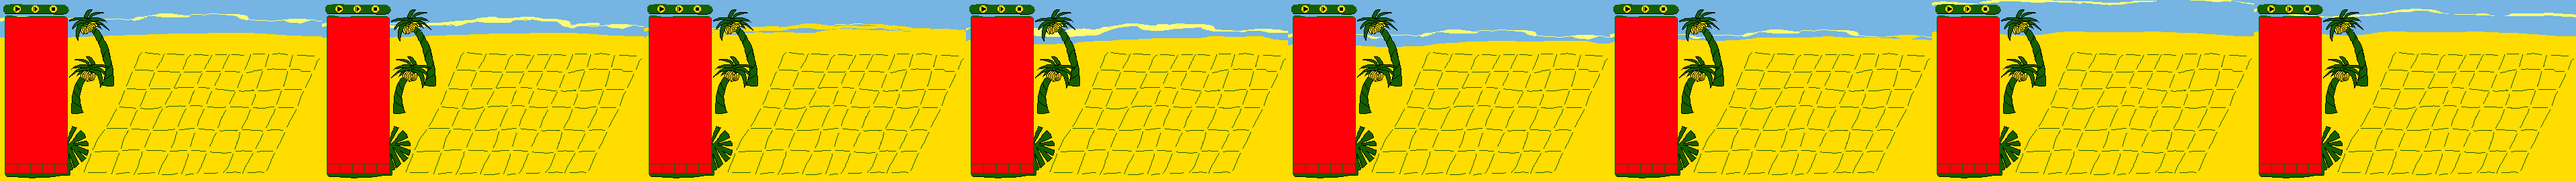
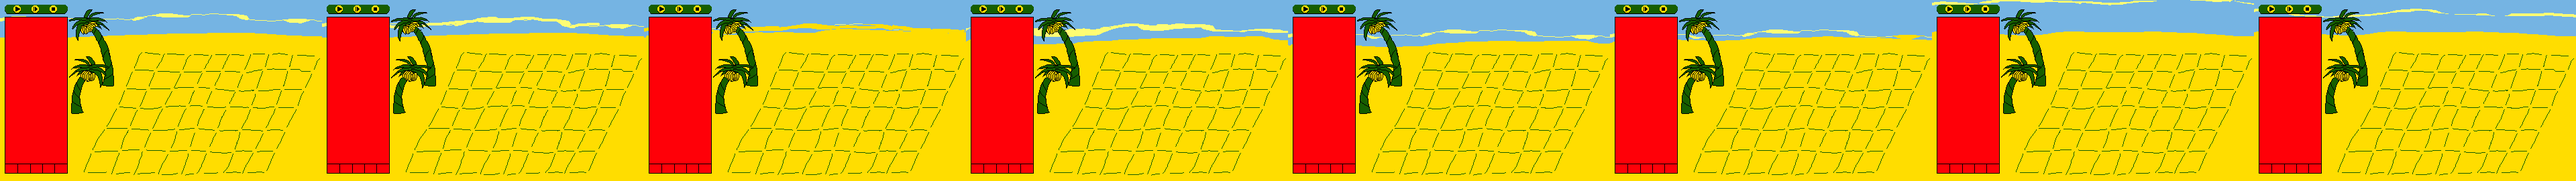
almost done

diff --git a/src/game.rs b/src/game.rs
@@ -170,15 +170,16 @@ impl Game {
                 );
 
                 if *col {
-                    window.draw_ex(&
-                        Rectangle::new(
-                            crabloc,
-                            (10., 10.)
-                        ),
-                        Col(Color{r:0./255., g:0./255., b:255./255., a:255./255.}),
-                        Transform::scale(Vector::new(1., 1.)),
-                        1,
-                    );
+                    sprites.execute(|spr|{
+                        let crab = spr.get_anim("small").unwrap().current_frame();
+                        window.draw_ex(&
+                            crab.area().with_center(crabloc),
+                            Img(&crab),
+                            Transform::scale(Vector::new(1, 1)),//* Transform::rotate(90 * crab_normal),
+                            2,
+                        );
+                        Ok(())
+                    })?;
                 }
             }
         }

diff --git a/src/main.rs b/src/main.rs
@@ -49,16 +49,15 @@ impl State for Crabs {
         self.draw_ui(window)?;
         self.game.draw(window, &mut self.sprites)?;
 
-        let loc = (self.pos_x, self.pos_y);
-
-        self.sprites.execute(|spr|{
-            let anim_frame = spr.get_anim("crab-rest").unwrap().current_frame();
-            window.draw(
-                &anim_frame.area().with_center(loc),
-                Img(anim_frame)
-            );
-            Ok(())
-        })?;
+        // let loc = (self.pos_x, self.pos_y);
+        // self.sprites.execute(|spr|{
+        //     let anim_frame = spr.get_anim("crab-rest").unwrap().current_frame();
+        //     window.draw(
+        //         &anim_frame.area().with_center(loc),
+        //         Img(anim_frame)
+        //     );
+        //     Ok(())
+        // })?;
 
         Ok(())
     }

diff --git a/src/sprites.rs b/src/sprites.rs
@@ -11,7 +11,10 @@ pub struct Sprites {
 impl Sprites {
 
     pub fn new() -> impl Future<Item=Self, Error=Error> {
-        let srcs: Vec<&str> = vec!["crab", "pointer"];
+        let srcs: Vec<&str> = vec![
+            "crab",
+            "pointer"
+        ];
 
         let img_futs = srcs.into_iter().map(move |src| {
             load_file(src.to_owned() + ".png")
@@ -26,6 +29,7 @@ impl Sprites {
             ("crab-left",(36, 27, 1.)),
             ("crab-up",(36, 27, 1.)),
             ("crab-right",(36, 27, 1.)),
+            ("small",(36, 27, 0.7)),
         ];
 
         let anim_futs = anims.into_iter().map(move |(src, dims)| {
